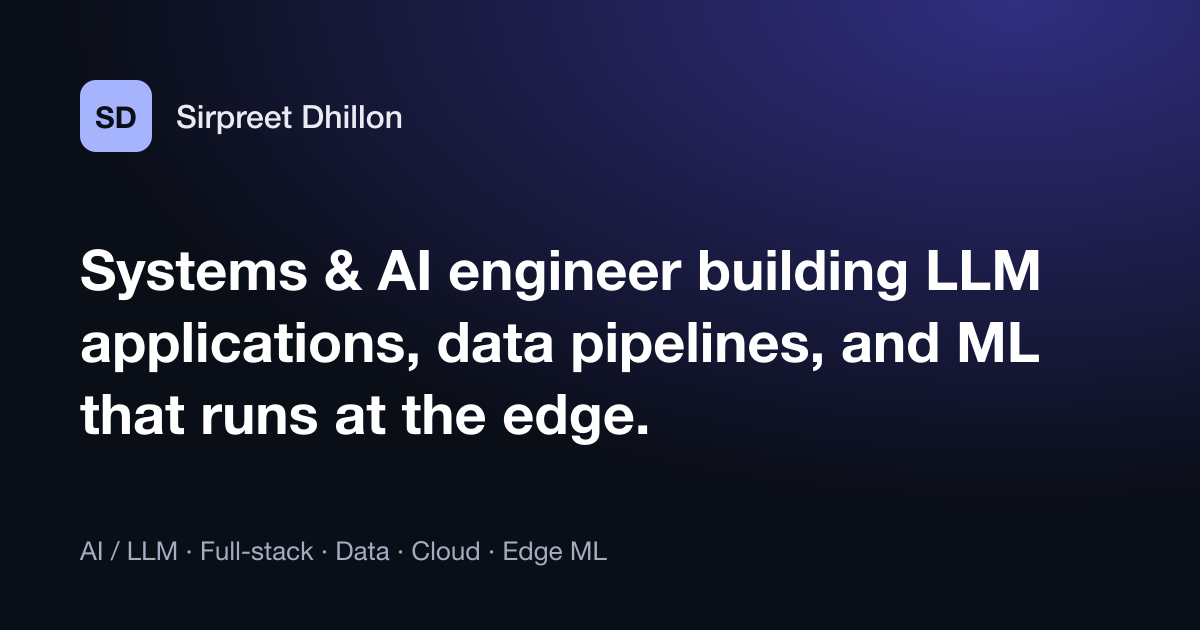
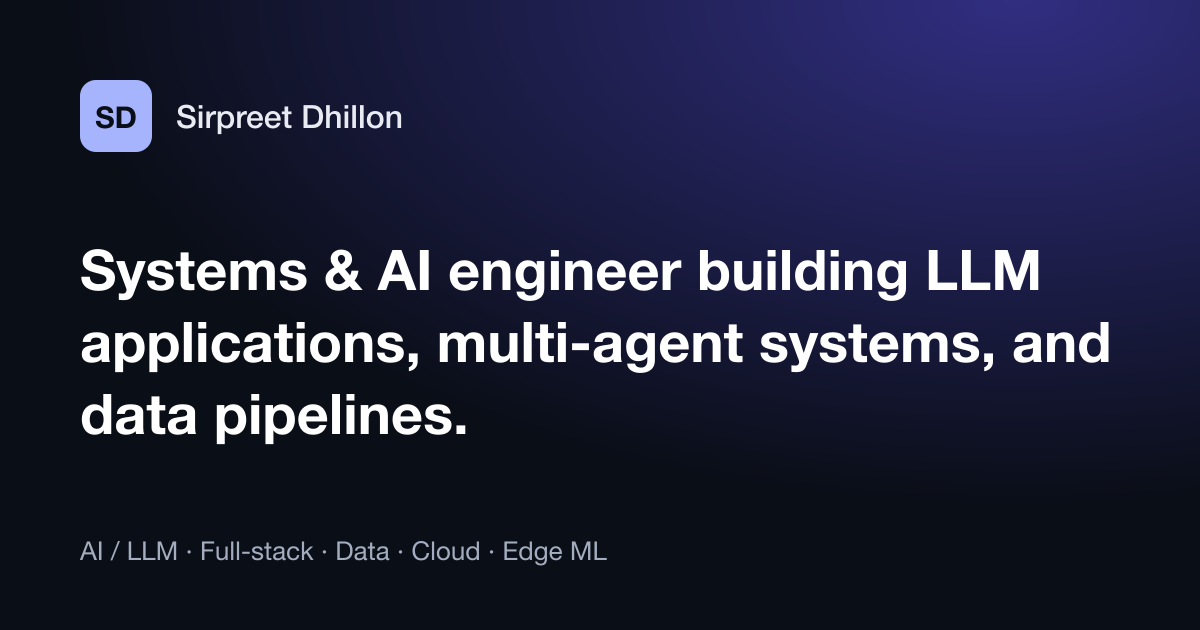
Hide unfinished orbital SAR project until next milestones
- Mark orbital-sar-tpu as draft (excluded from production builds,
  still visible in `npm run dev`)
- Add currentWork.enabled flag and turn the Current work section off;
  its content stays in site.json
- Remove SAR/Trillium mentions from headline, intro, bio, SEO, skills,
  and the /work intro; regenerate the OG image
- Feature the AI course-material generator to keep the grid even

Changed region(s): [[0.37, 0.5127, 0.925, 0.6032], [0.0617, 0.6032, 0.555, 0.7238]]

diff --git a/src/lib/site.ts b/src/lib/site.ts
@@ -30,6 +30,8 @@ const siteSchema = z.object({
     ogImage: z.string().min(1),
   }),
   currentWork: z.object({
+    /** false hides the whole Current work section (content is kept). */
+    enabled: z.boolean().default(true),
     eyebrow: z.string(),
     title: z.string().min(1),
     summary: z.string().min(1),

diff --git a/src/content/projects/ai-course-material-generator.md b/src/content/projects/ai-course-material-generator.md
@@ -10,7 +10,7 @@ problem: Educators spend hours researching a topic and turning their notes into 
 solution: A React front end and an Express back end. A Gemini-powered agent searches the web for a topic, scrapes and condenses the top sources, and plans structured slides and sections. The back end then renders them into styled PowerPoint (.pptx) and Word (.docx) files, streaming progress to the UI as it goes.
 stack: [JavaScript, React, Vite, Node.js, Express, Google Gemini, Cheerio, PptxGenJS, docx]
 outcome: One prompt produces a downloadable deck and document in minutes, with source-grounded content and consistent formatting.
-featured: false
+featured: true
 order: 5
 confidential: false
 ---

diff --git a/src/content/projects/orbital-sar-tpu.md b/src/content/projects/orbital-sar-tpu.md
@@ -11,6 +11,8 @@ solution: A Python SAR pipeline designed to run onboard. A NumPy range-Doppler r
 stack: [Python, NumPy, JAX, Sentinel-1, AIS, pytest, uv, GitHub Actions]
 outcome: Focused synthetic targets match theory. Range resolution measured 2.65 m against a theoretical 2.66 m, with −13.5 dB range PSLR, and quality is identical at near, mid, and far range. Next steps are focusing real Level-0 data, benchmarking CPU vs Trillium TPU, and ship detection.
 featured: true
+# Hidden until milestones M2/M2b are done — set draft: false to publish.
+draft: true
 order: 1
 confidential: false
 ---
